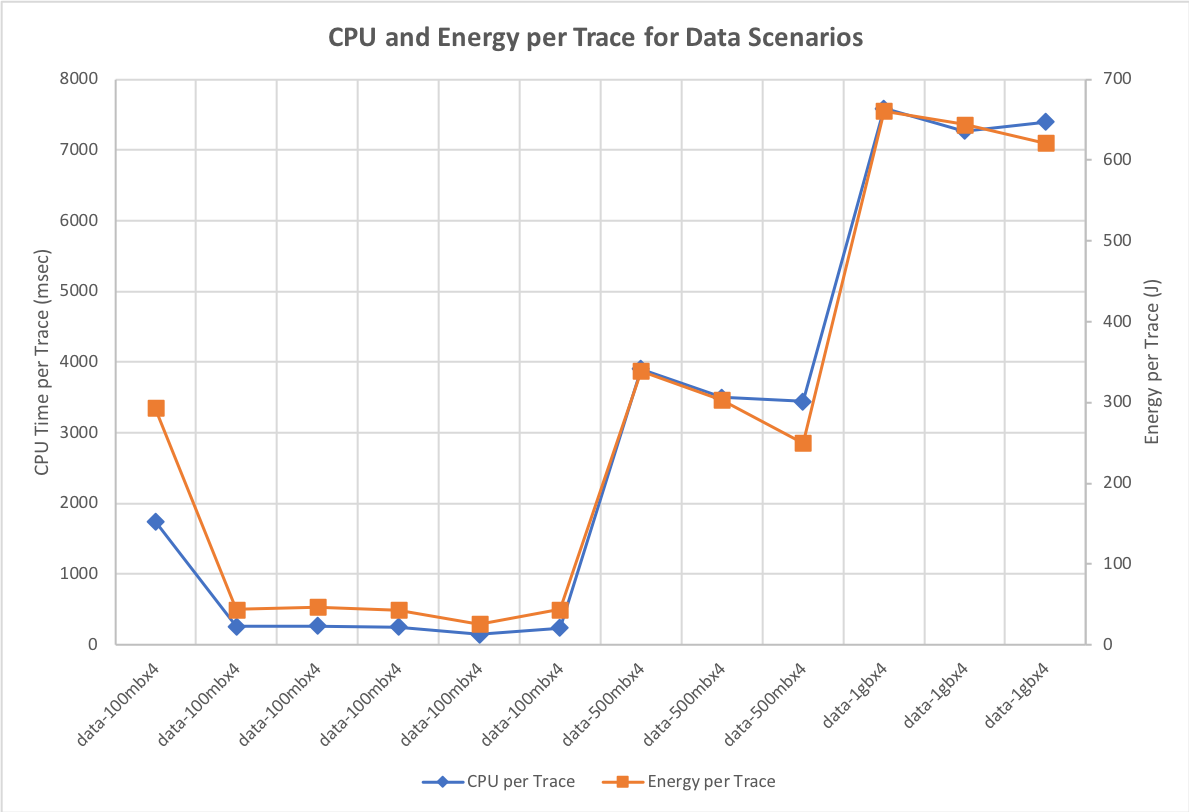
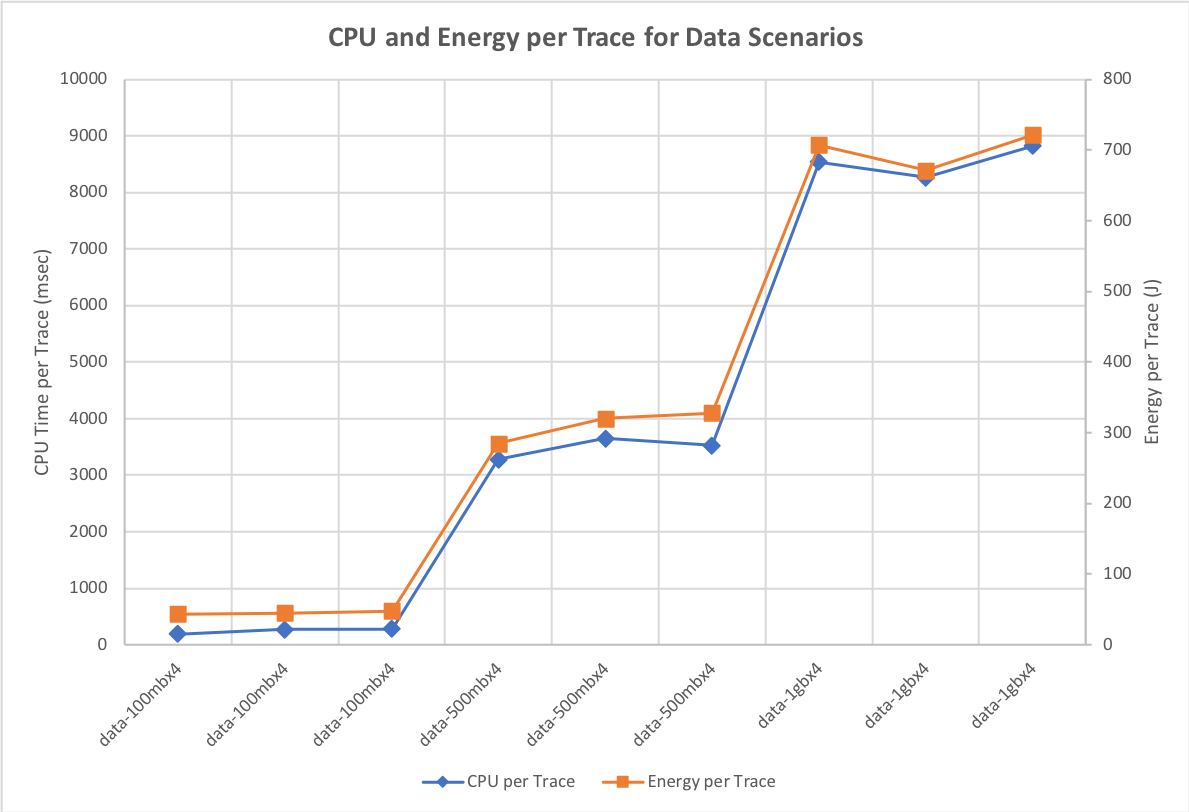
Updates after correction to Fiohog

diff --git a/Chapters/apollo-validation-chapter.tex b/Chapters/apollo-validation-chapter.tex
@@ -244,9 +244,7 @@ To test the assumption that CPU utilisation acts as a good proxy for IO activity
 
 The graph shows the results of running a number of data-intensive application scenarios, one group that called a service to write 100MB of data to file 4 times, one that called a service to write 500MB of data to file 4 times, and one that called a service to write 1GB of data to file 4 times.  Hence the total data written by the first group of scenarios was 400MB, the second group 2GB and the third 4GB.
 
-It is worth nothing immediately that we have one outlier value, the first 100MB data test case, that used dramatically more CPU than the later test cases (which is why we have more of those than the larger tests as we ran several more to check that this was truely a single outlier).  This was the first IO test run on the machine and so we believe that it simply suffered more CPU usage due to initialisation of kernel data paths and probably encountered more IO Wait CPU time too, as it was the first process to write a significant amount of data to the device concerned.  We eliminated this single test scenario from our consideration of CPU and IO correlation.
-
-When we plot the CPU usage and the Apollo energy allocation for the other test scenarios on the graph, we can clearly see that CPU usage is directly related to the amount of data written and the correlation coefficient between the values for data written and CPU utilised is 0.9986, indicating that CPU is a good proxy for the amount of data written by a process.
+When we plot the CPU usage and the Apollo energy allocation for the other test scenarios on the graph, we can clearly see that CPU usage is directly related to the amount of data written and the correlation coefficient between the values for data written and CPU utilised is 0.9965, indicating that CPU is a good proxy for the amount of data written by a process.
 
 For completeness we also plotted the data-size of each scenario compared to the energy allocated by Apollo to each, which is shown in \fref{figure:validation-energybydatasize}.  
 
@@ -259,7 +257,7 @@ For completeness we also plotted the data-size of each scenario compared to the 
 
 This graph looks similar to \fref{figure:validation-traceenergydatasize} but is illustrating a slightly different point in that while the x-axis (test scenarios) and right-hand y-axis (energy per trace) are the same, the left-hand y-axis shows the amount of data written by each scenario, rather than the CPU usage.  This can be seen in the flat horizontal sections of the graph for each type of scenario.  
 
-The strong grouping of points around scenarios shows that this graph validates that the energy allocation for these data-intensive services correlates well with the amount of data each is writing, albeit with some variation in some test cases. When we calculated the correlation coefficient between energy allocation and data written, it was found to be 0.996, again showing a very high degree of correlation between energy allocation and the amount of data written by the application elements within the scenario.
+The strong grouping of points around scenarios shows that this graph validates that the energy allocation for these data-intensive services correlates well with the amount of data each is writing, albeit with some variation in some test cases. When we calculated the correlation coefficient between energy allocation and data written, it was found to be 0.9967, again showing a very high degree of correlation between energy allocation and the amount of data written by the application elements within the scenario.
 
 The combination of these two test results shows that we were correct in our assumption that CPU is a good proxy for other resource utilisation by a process, particularly file IO.
 
